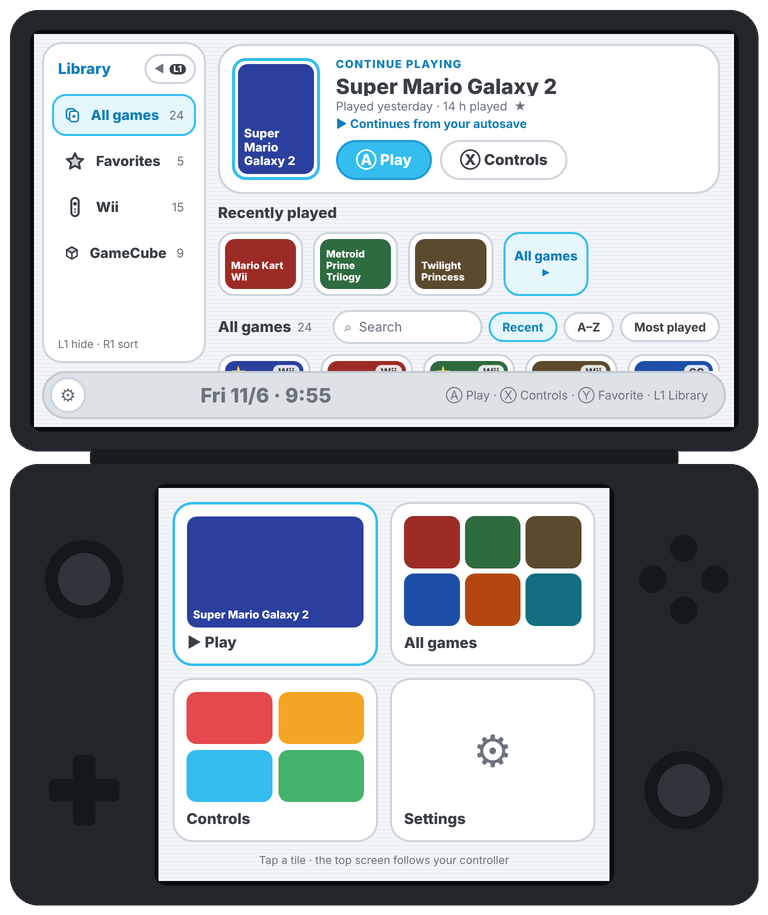
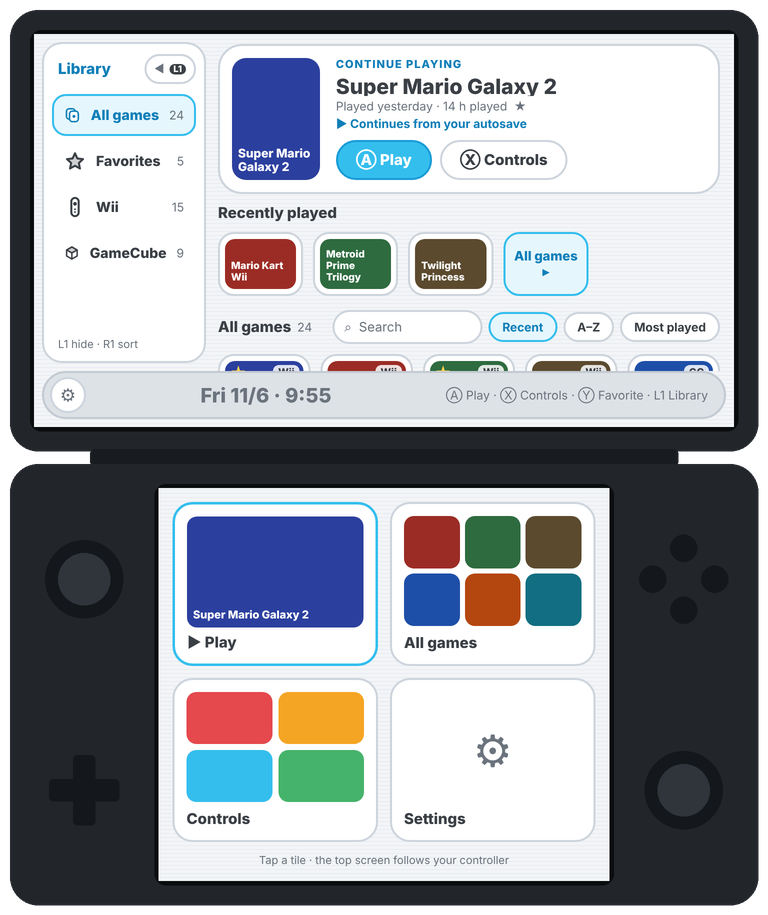
Home: no fixed accent frame on the Continue playing cover
Claude-Session: https://claude.ai/code/session_017Es1WvuR75edjTX8cpNzUJ

Changed region(s): [[0.2812, 0.0612, 0.4375, 0.2142]]

diff --git a/tools/screenshots/home_top.html b/tools/screenshots/home_top.html
@@ -6,7 +6,7 @@
  <div class="lrow on"><svg width="22" height="22" viewBox="0 0 24 24"><rect x="3.5" y="3" width="12.5" height="15" rx="4" stroke="#0F7FB8" stroke-width="2.2" fill="none" stroke-linecap="round" stroke-linejoin="round"/><rect x="8" y="6.5" width="12.5" height="15" rx="4" fill="#fff"/><rect x="8" y="6.5" width="12.5" height="15" rx="4" stroke="#0F7FB8" stroke-width="2.2" fill="none" stroke-linecap="round" stroke-linejoin="round"/><circle cx="14.25" cy="14" r="2.1" fill="#0F7FB8"/></svg><span>All games</span><span class="n">24</span></div><div class="lrow"><svg width="22" height="22" viewBox="0 0 24 24"><polygon points="12.00,3.60 14.59,9.24 20.75,9.96 16.18,14.16 17.41,20.24 12.00,17.20 6.59,20.24 7.82,14.16 3.25,9.96 9.41,9.24" fill="#3A3F45" fill-opacity=".25"/><polygon points="12.00,3.60 14.59,9.24 20.75,9.96 16.18,14.16 17.41,20.24 12.00,17.20 6.59,20.24 7.82,14.16 3.25,9.96 9.41,9.24" stroke="#3A3F45" stroke-width="2.2" fill="none" stroke-linecap="round" stroke-linejoin="round"/></svg><span>Favorites</span><span class="n">5</span></div><div class="lrow"><svg width="22" height="22" viewBox="0 0 24 24"><rect x="8" y="2" width="8" height="20" rx="4" stroke="#3A3F45" stroke-width="2.2" fill="none" stroke-linecap="round" stroke-linejoin="round"/><circle cx="12" cy="8.5" r="2" fill="#3A3F45"/><circle cx="12" cy="14.5" r="1" fill="#3A3F45"/><circle cx="12" cy="17.5" r="1" fill="#3A3F45"/></svg><span>Wii</span><span class="n">15</span></div><div class="lrow"><svg width="22" height="22" viewBox="0 0 24 24"><polygon points="12,2.9 20,7.4 12,11.9 4,7.4" fill="#3A3F45" fill-opacity=".25"/><polygon points="12,2.9 20,7.4 20,16.6 12,21.1 4,16.6 4,7.4" stroke="#3A3F45" stroke-width="2.2" fill="none" stroke-linecap="round" stroke-linejoin="round"/><polygon points="12,2.9 20,7.4 12,11.9 4,7.4" stroke="#3A3F45" stroke-width="2.2" fill="none" stroke-linecap="round" stroke-linejoin="round"/><line x1="12" y1="11.9" x2="12" y2="21.1" stroke="#3A3F45" stroke-width="2.2" fill="none" stroke-linecap="round" stroke-linejoin="round"/></svg><span>GameCube</span><span class="n">9</span></div><div style="flex:1"></div><div class="dim" style="font-size:11px;padding-left:6px">L1 hide · R1 sort</div></div>
 <div style="flex:1;padding:10px 14px 0 12px;display:flex;flex-direction:column;gap:10px;overflow:hidden">
  <div class="card" style="height:150px;flex:none;display:flex;gap:16px;padding:12px;border-radius:24px">
-  <div style="height:100%;aspect-ratio:.72;border-radius:14px;border:3px solid #34BEED;padding:3px"><div class="cover" style="height:100%;background:#2B3F9E;font-size:12px">Super Mario Galaxy 2</div></div>
+  <div style="height:100%;aspect-ratio:.72;border-radius:14px;overflow:hidden"><div class="cover" style="height:100%;background:#2B3F9E;font-size:12px">Super Mario Galaxy 2</div></div>
   <div style="flex:1;display:flex;flex-direction:column;justify-content:center;gap:3px">
    <div class="acc" style="font-size:11px;font-weight:800;letter-spacing:1px">CONTINUE PLAYING</div>
    <div style="font-size:21px;font-weight:800;white-space:nowrap;overflow:hidden;text-overflow:ellipsis">Super Mario Galaxy 2</div>

diff --git a/app/src/main/java/io/github/hiramrg/delphis/ui/Screens.kt b/app/src/main/java/io/github/hiramrg/delphis/ui/Screens.kt
@@ -350,7 +350,8 @@ private fun HeroCard(act: MainActivity, g: GameEntry) {
             // On the Thor's top screen the card is short: one-line title, fewer detail lines.
             val tight = maxHeight < 190.dp
             Row(Modifier.fillMaxSize(), verticalAlignment = Alignment.CenterVertically) {
-                Box(Modifier.fillMaxHeight().aspectRatio(0.72f).clip(RoundedCornerShape(14.dp)).border(3.dp, c.accent, RoundedCornerShape(14.dp)).padding(3.dp)) {
+                // No accent frame here: the only blue ring on Home is the one that follows the D-pad focus.
+                Box(Modifier.fillMaxHeight().aspectRatio(0.72f).clip(RoundedCornerShape(14.dp))) {
                     Cover(act, g, act.prefs.showCovers, Modifier.fillMaxSize(), titleSize = 14)
                 }
                 Spacer(Modifier.width(16.dp))
